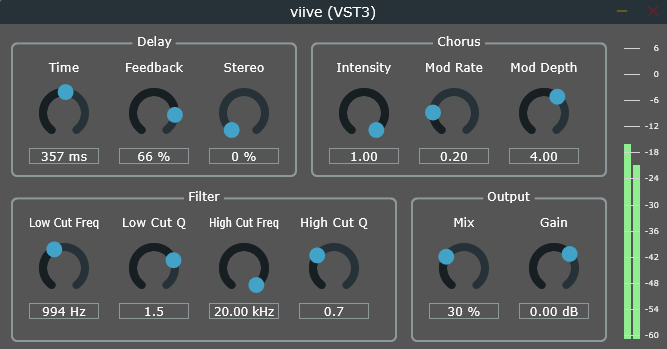
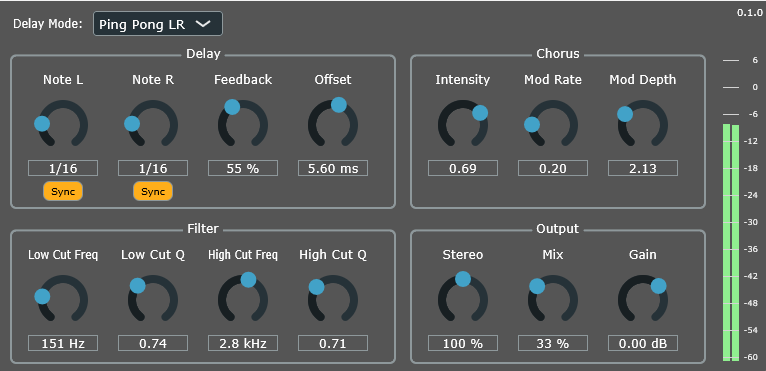
update changelog, readme and screenshot

diff --git a/README.md b/README.md
@@ -10,26 +10,26 @@ Currently developed and tested on Windows (JUCE AudioPluginHost, Ableton Live Su
 
 - Functional GUI with parameter controls and output level metering
 - Saves and retrieves plugin state
-- Adjustable delay time (5ms - 5000ms)
-- Mix and feedback controls with feedback stabilization
-- Sculpting Low/high-cut filters with adjustable resonance on delayed signal / feedback loop
-- Cross-channel feedback for stereo effects
+- Separate L/R delay times (5ms - 5000ms) with tempo sync and L/R offset
+- Mix and feedback controls with feedback stabilization (0-140%)
+- Stereo width control with mid/side processing
+- Sculpting low/high-cut filters with adjustable resonance on delayed signal / feedback loop
 - Dual-voice chorus effect in feedback loop with intensity, modulation rate, and modulation depth controls
 - Feedback loop protection: HPF, compressor, soft clipping
 
-Despite the feedback protection, it can get quite loud and nasty.
+Despite the feedback protection, it can get quite loud and nasty. High feedback settings may produce interesting noise artifacts.
 
-Note: GUI is not final. Stereo knob is placeholder and non-functional.
+Note: GUI is not final.
 
 See [CHANGELOG.md](./CHANGELOG.md) for version history and detailed changes.
 
 ## Potential future features
 
-- Tempo sync for delay time
 - LFO/modulation for general parameters (such as filter cutoffs)
-- Cross feedback amount control
-- Additional effects in feedback loop (phaser?)
+- Additional effects in feedback loop (bitcrush, phaser)
 - Preset manager
+- Single/dual delay mode switch
+- Ducking
 
 ## Building
 

diff --git a/CHANGELOG.md b/CHANGELOG.md
@@ -8,6 +8,8 @@ All notable changes to this project will be documented in this file.
 
 * Additional effects in feedback loop (phaser, bitcrusher, etc.)
 * Preset manager
+* Ducking
+* LFO/Modulation for general parameters (delay time, filter cutoff)
 
 ## \[0.1.0] - 2026-04-16
 
